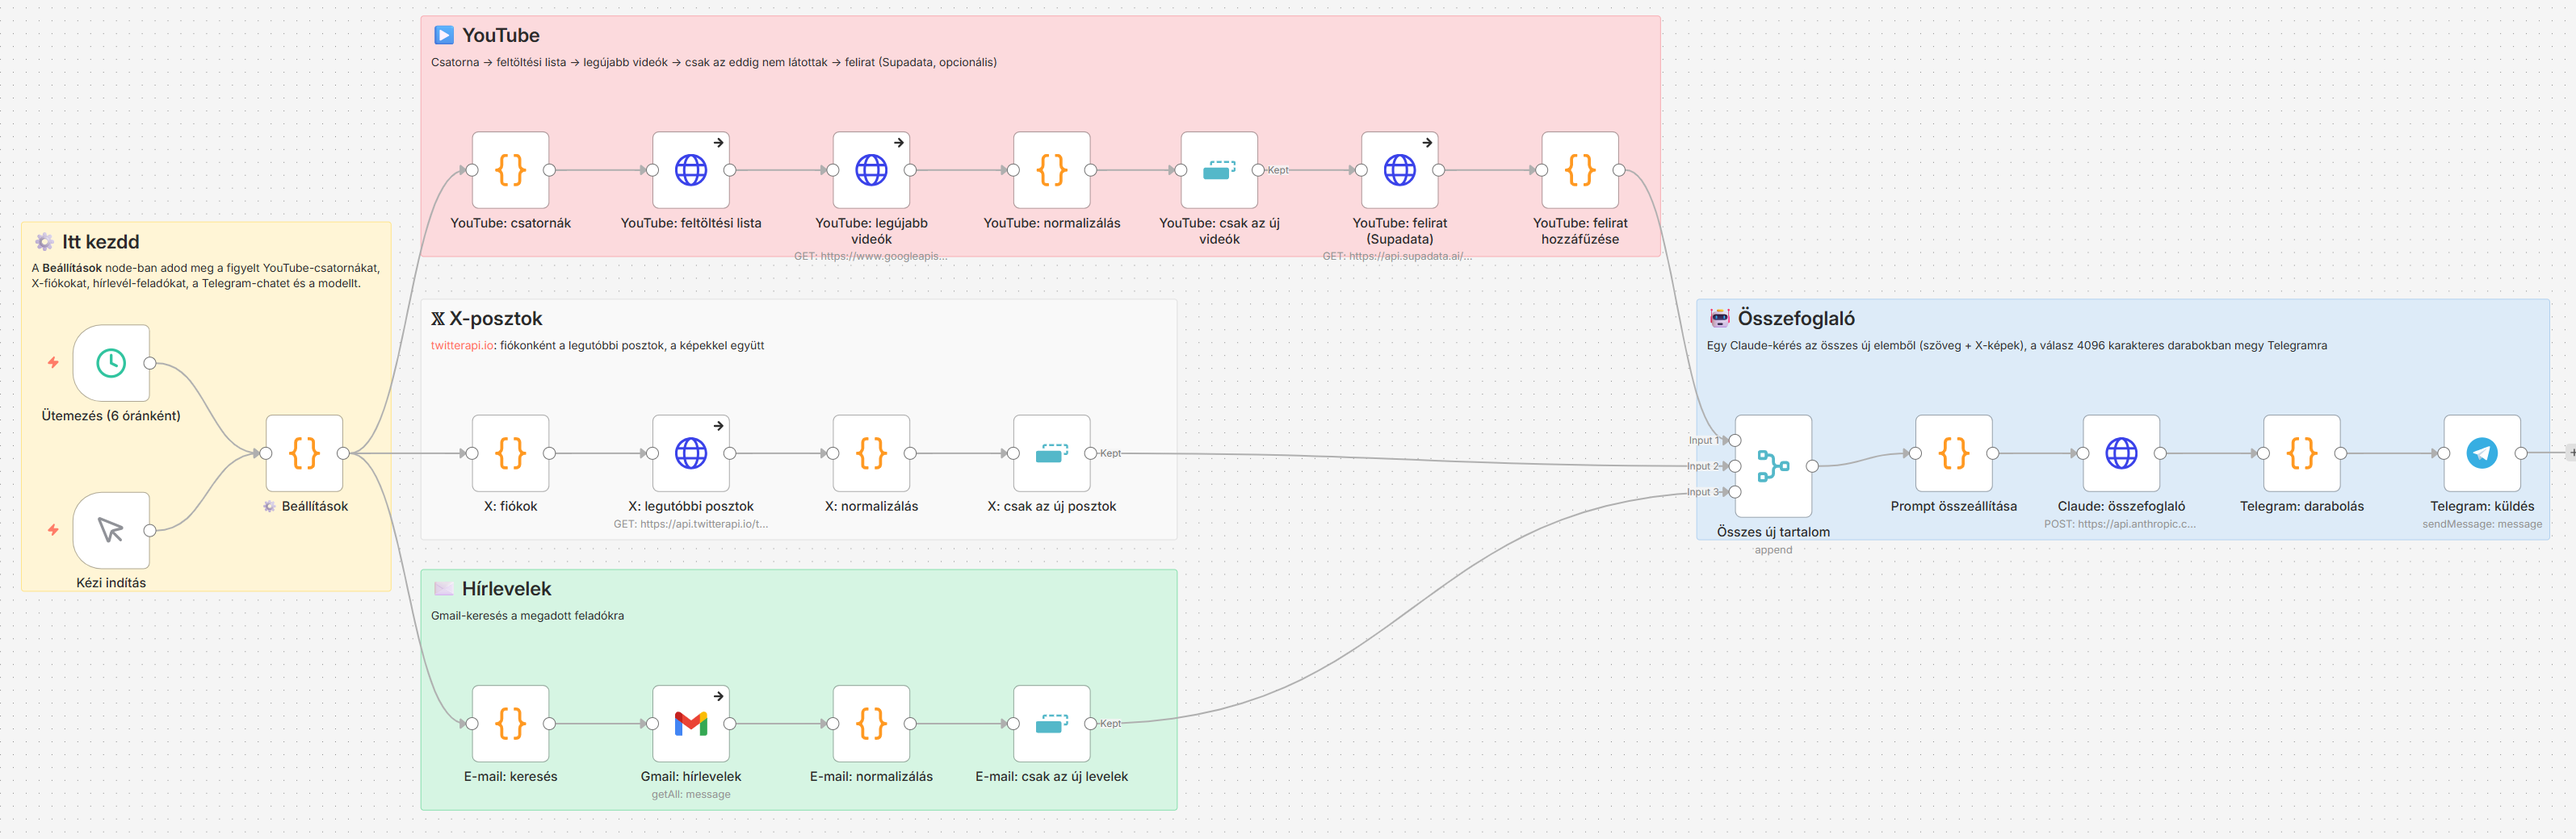
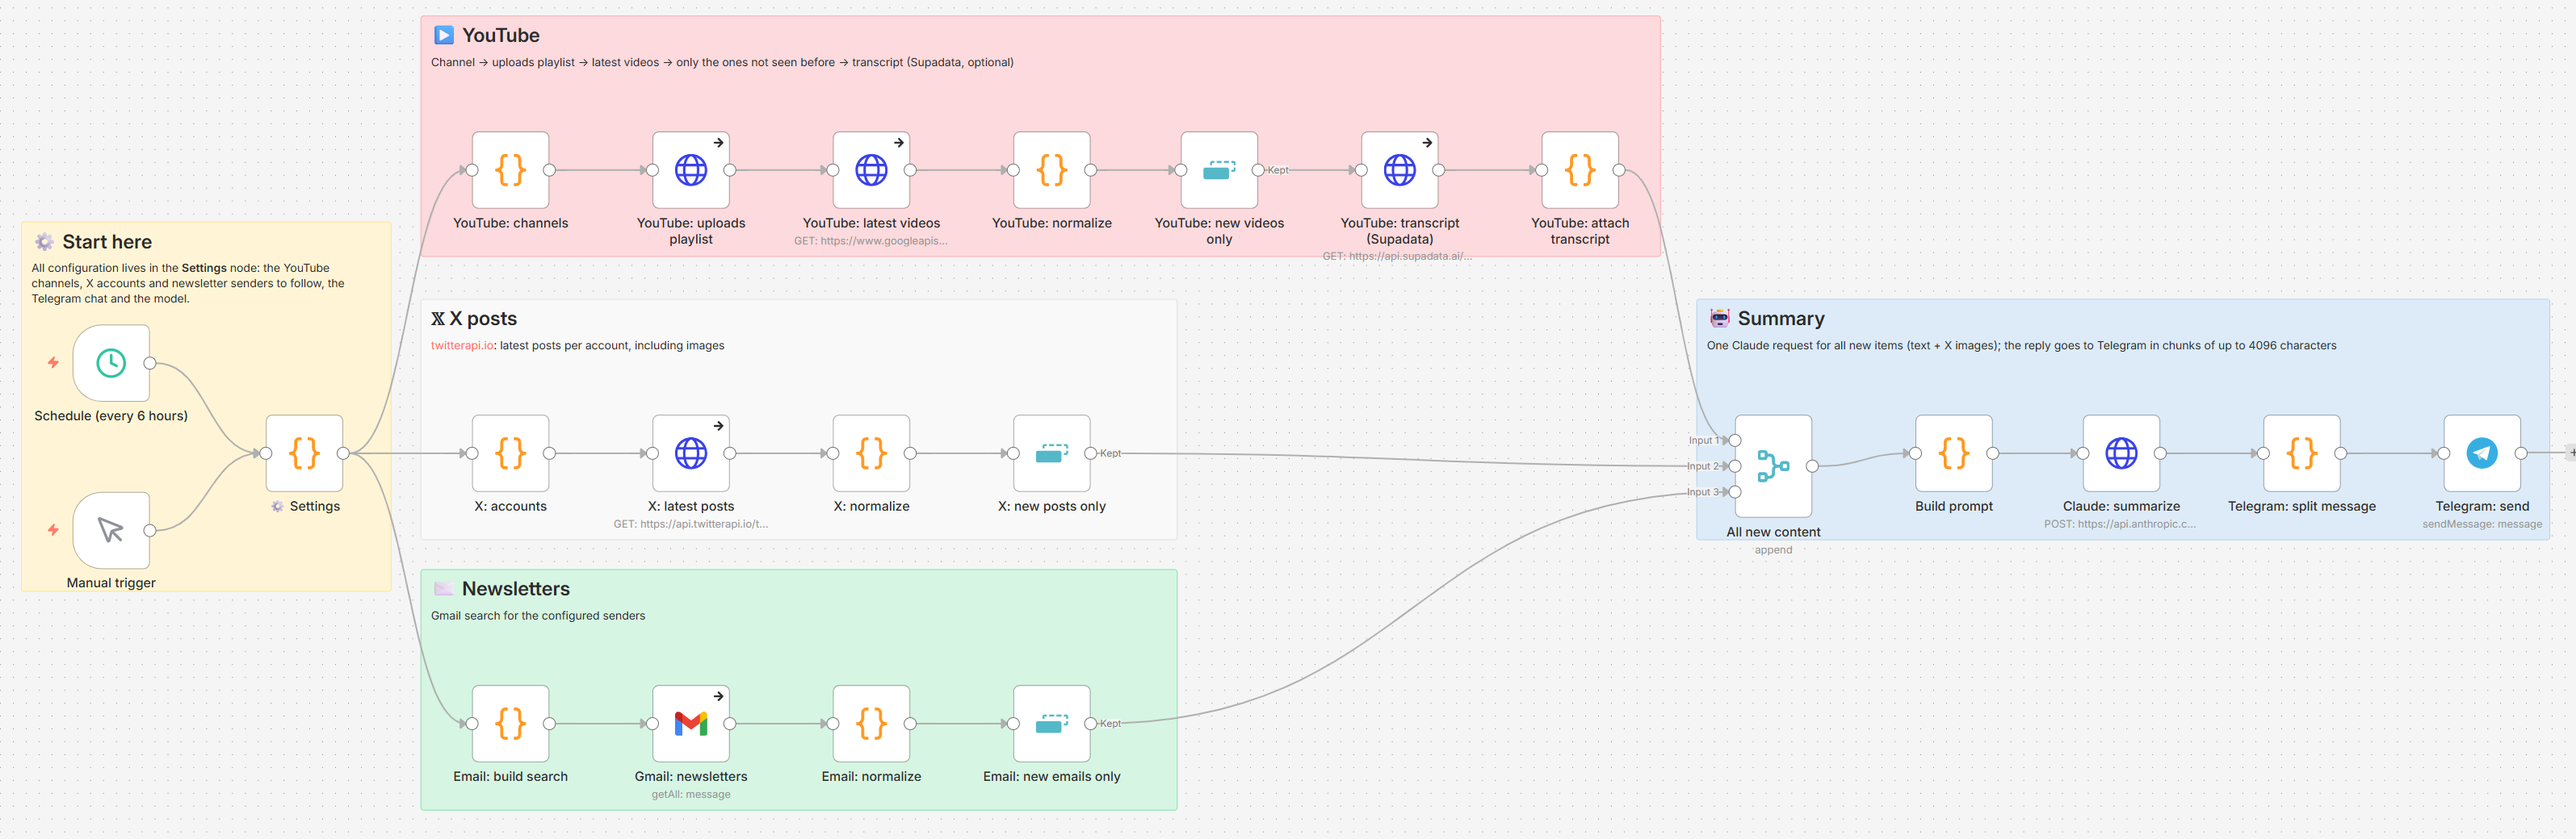
Translate the workflow to English
Node names, sticky notes, code comments, the system prompt and the error
alert text are now in English. The summary language is still set by
reportLanguage (Hungarian by default). Screenshots retaken, READMEs updated.

diff --git a/README.hu.md b/README.hu.md
@@ -2,7 +2,7 @@
 
 Néhány YouTube-csatornát, X-fiókot és hírlevelet követek, és nem akarom
 mindet végignézni. Ez a workflow hat óránként összeszedi az új tartalmat,
-Claude-dal magyar összefoglalót írat belőle, és elküldi egy Telegram-csatornára.
+Claude-dal összefoglalót írat belőle (alapból magyarul), és elküldi egy Telegram-csatornára.
 Ugyanarról a videóról vagy posztról nem küld kétszer.
 
 A projekt egy Pythonban írt, Windows-ütemezővel futó rendszerem n8n-es
@@ -29,7 +29,7 @@ flowchart LR
     MG --> P[Prompt<br/>szöveg + képek] --> AI[Claude API] --> TG[Telegram<br/>4096 karakteres darabok]
 ```
 
-A figyelt forrásokat a `⚙ Beállítások` node-ban kell megadni. Egy új csatorna
+A figyelt forrásokat a `⚙ Settings` node-ban kell megadni. Egy új csatorna
 vagy fiók egy új sor a listában, a többi node-hoz nem kell nyúlni.
 
 A három forrás külön ágon fut. Mindegyik ág végén egy Remove Duplicates node
@@ -70,7 +70,7 @@ Workflows → Import from File. Előbb a `workflows/error-alert.json`, utána a
 Hat hitelesítő adatot kell létrehozni, és hozzárendelni a megfelelő
 node-okhoz.
 
-A két YouTube-os HTTP node (feltöltési lista, legújabb videók) Query Auth
+A két YouTube-os HTTP node (uploads playlist, latest videos) Query Auth
 típusú hitelesítést kap `key` névvel, az értéke a YouTube Data API v3 kulcs. A
 felirat-node (Supadata) Header Auth-ot használ `x-api-key` névvel. Ez nem
 kötelező: kulcs nélkül a videók leírásából készül az összefoglaló. Az X-es node
@@ -78,18 +78,18 @@ szintén Header Auth-ot kap, `X-API-Key` névvel és a twitterapi.io kulccsal, a
 Claude-node pedig `x-api-key` névvel és az Anthropic API-kulccsal.
 
 A Gmail-node OAuth2-vel kapcsolódik a saját postafiókodhoz. A két Telegram node
-(küldés, hibajelzés) a bot tokenjét kéri, amit a @BotFathertől kapsz.
+(send, error alert) a bot tokenjét kéri, amit a @BotFathertől kapsz.
 
 A kulcsokat az n8n titkosítva tárolja. A repóban lévő workflow-fájlokban nincs
 kulcs.
 
 Ha valamelyik forrást nem használod (például nincs twitterapi.io-kulcsod),
-hagyd üresen a hozzá tartozó listát a Beállításokban. Akkor az az ág el sem
+hagyd üresen a hozzá tartozó listát a Settings node-ban. Akkor az az ág el sem
 indul.
 
 ### 4. Beállítások
 
-A `⚙ Beállítások` node legfontosabb mezői:
+A `⚙ Settings` node legfontosabb mezői:
 
 ```js
 youtubeChannels: ['@tizeslista_hu', 'UCjFCzjkgSShdRZIVJx3SSlQ'],
@@ -98,6 +98,7 @@ emailSenders:    ['newsletter@example.com'],
 lookbackHours:   24,
 telegramChatId:  '-100XXXXXXXXXX',
 model:           'claude-sonnet-5-5',
+reportLanguage:  'Hungarian',
 ```
 
 A YouTube-csatornát `@handle` alakban és `UC...` kezdetű azonosítóval is meg
@@ -105,7 +106,7 @@ lehet adni.
 
 ### 5. Próba és élesítés
 
-1. Futtasd a workflow-t a Kézi indítás triggerről. Minden node-on látszik,
+1. Futtasd a workflow-t a Manual trigger node-ról. Minden node-on látszik,
    hány elem ment át rajta.
 2. A fő workflow Settings → Error workflow mezőjében válaszd ki a
    „Content Digest – error alert” workflow-t.
@@ -124,7 +125,7 @@ kvótaegység, a napi ingyenes keret 10 000.
 ### Deduplikáció
 
 Minden elem kap egy azonosítót (`youtube:<id>`, `x:<id>`,
-`email:<id>`), a három „csak az új …” node ez alapján szűr. Ha mindent újra
+`email:<id>`), a három „new … only” node ez alapján szűr. Ha mindent újra
 látni szeretnél, futtasd a node-on a Clear Deduplication History műveletet.
 
 ### Üres ágak

diff --git a/README.md b/README.md
@@ -10,7 +10,8 @@ Windows Task Scheduler, transcribes audio locally with Whisper and writes its
 reports with Claude Code. Here the same pipeline is built from n8n nodes, so
 you can follow it step by step in the editor and run it on any n8n instance.
 
-The node names and the generated summaries are in Hungarian.
+The summaries are written in Hungarian by default. The language is one setting
+(`reportLanguage`).
 
 ![The workflow in the n8n editor](docs/workflow.png)
 
@@ -31,7 +32,7 @@ flowchart LR
     MG --> P[Prompt<br/>text + images] --> AI[Claude API] --> TG[Telegram<br/>4096-character chunks]
 ```
 
-You list the sources to follow in the `⚙ Beállítások` (Settings) node. Adding
+You list the sources to follow in the `⚙ Settings` node. Adding
 a channel or an account is one new line in a list; no other node needs to
 change.
 
@@ -70,16 +71,15 @@ then `workflows/content-digest.json`.
 
 You need six credentials, each attached to the matching nodes.
 
-The two YouTube HTTP nodes (feltöltési lista, legújabb videók: upload playlist
-and latest videos) use a Query Auth credential named `key`, with your YouTube
-Data API v3 key as the value. The transcript node (felirat, Supadata) uses
+The two YouTube HTTP nodes (uploads playlist, latest videos) use a Query Auth credential named `key`, with your YouTube
+Data API v3 key as the value. The transcript node (Supadata) uses
 Header Auth named `x-api-key`. It's optional: without it, summaries are based
 on the video descriptions. The X node also uses Header Auth, named `X-API-Key`
 with your twitterapi.io key, and the Claude node uses `x-api-key` with your
 Anthropic API key.
 
 The Gmail node connects to your mailbox with Gmail OAuth2. The two Telegram
-nodes (küldés and hibajelzés: send and error alert) need your bot token from
+nodes (send, error alert) need your bot token from
 @BotFather.
 
 n8n stores the keys encrypted. The workflow files in this repository contain no
@@ -90,7 +90,7 @@ empty in the Settings node and that branch won't run at all.
 
 ### 4. Settings
 
-The main fields of the `⚙ Beállítások` node:
+The main fields of the `⚙ Settings` node:
 
 ```js
 youtubeChannels: ['@tizeslista_hu', 'UCjFCzjkgSShdRZIVJx3SSlQ'],
@@ -99,6 +99,7 @@ emailSenders:    ['newsletter@example.com'],
 lookbackHours:   24,
 telegramChatId:  '-100XXXXXXXXXX',
 model:           'claude-sonnet-5-5',
+reportLanguage:  'Hungarian',
 ```
 
 A YouTube channel can be given either as an `@handle` or as a channel ID
@@ -106,7 +107,7 @@ starting with `UC`.
 
 ### 5. Test run and activation
 
-1. Run the workflow from the Kézi indítás (manual trigger) node. Each node
+1. Run the workflow from the Manual trigger node. Each node
    shows how many items passed through it.
 2. In the main workflow's Settings → Error workflow field, select
    "Content Digest – error alert".
@@ -125,7 +126,7 @@ daily quota of 10,000.
 ### Deduplication
 
 Every item gets an ID (`youtube:<id>`, `x:<id>`, `email:<id>`), and the three
-"csak az új" (new only) nodes filter on it. To see everything again, run the
+"new ... only" nodes filter on it. To see everything again, run the
 Clear Deduplication History operation on those nodes.
 
 ### Empty branches
